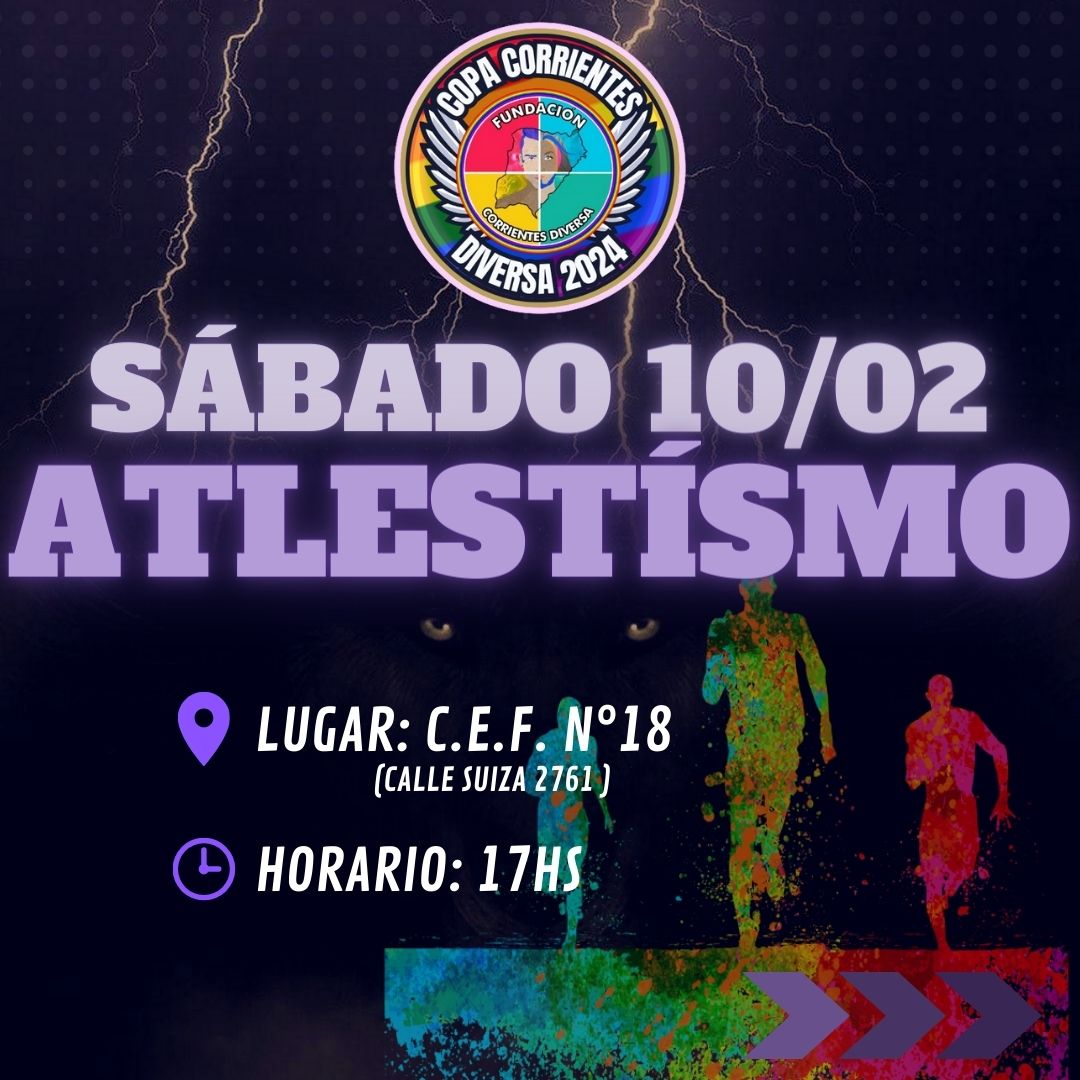
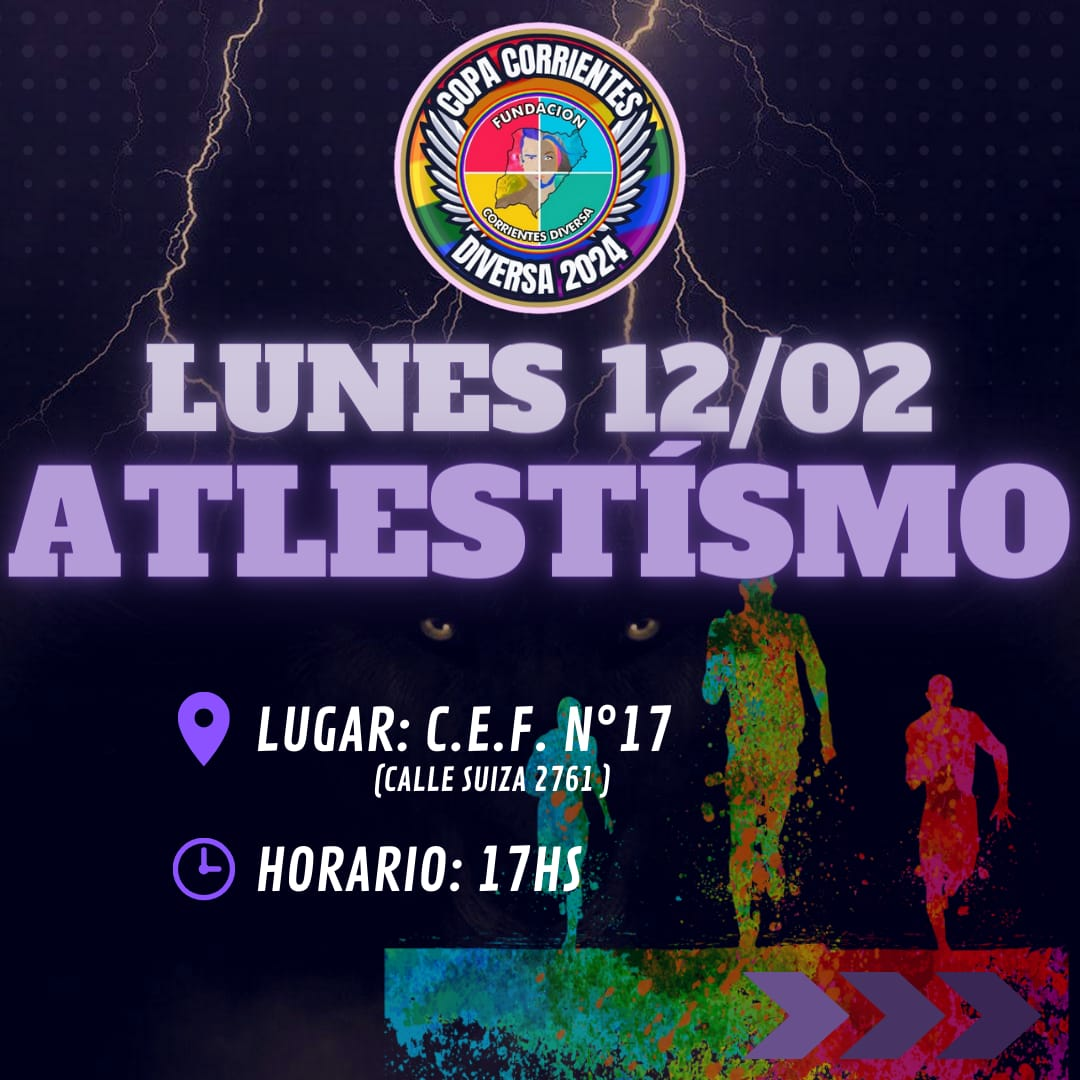
horarios y premiación

diff --git a/index.html b/index.html
@@ -174,6 +174,9 @@
             </button>
         </div>
             </div>
+            <div class="card-footer font-effect-outline text-center h5">
+                🥇 🏆 Premiación: Lunes 23:30 hs en "Castillo Robert" <a href="https://maps.app.goo.gl/KDNJrW58c9idz13a6" target="_blank" rel="noopener noreferrer" class="btn btn-dark border-white bi bi-geo-alt m-1"></a>
+            </div>
         </div>
 
         <div class="card">
@@ -494,7 +497,7 @@
                     <div class="card-body"> 
                         <div class="alert alert-info alert-dismissible h5">
                             <button type="button" class="btn-close" data-bs-dismiss="alert"></button>
-                            <strong><i class="bi bi-clock"></i> Horario: </strong> Sabado 10/2. 13 hs (Secretaria de Deportes)
+                            <strong><i class="bi bi-clock"></i> Horario: </strong> Sabado 10/2. 18 hs (Secretaria de Deportes)
                         </div>
                         A continuación encontrarás el <span class="fw-bold">Fixture</span>: 
                     </div>
@@ -1528,7 +1531,7 @@
                     <div class="card-body"> 
                         <div class="alert alert-info alert-dismissible h5">
                             <button type="button" class="btn-close" data-bs-dismiss="alert"></button>
-                            <strong><i class="bi bi-clock"></i> Horario: </strong> Sabado 10/2. 17 hs (CEF 18)
+                            <strong><i class="bi bi-clock"></i> Horario: </strong> Lunes 12/2. 17 hs (CEF 18)
                         </div>
                         A continuación encontrarás el <span class="fw-bold">Fixture</span>: 
                     </div>
